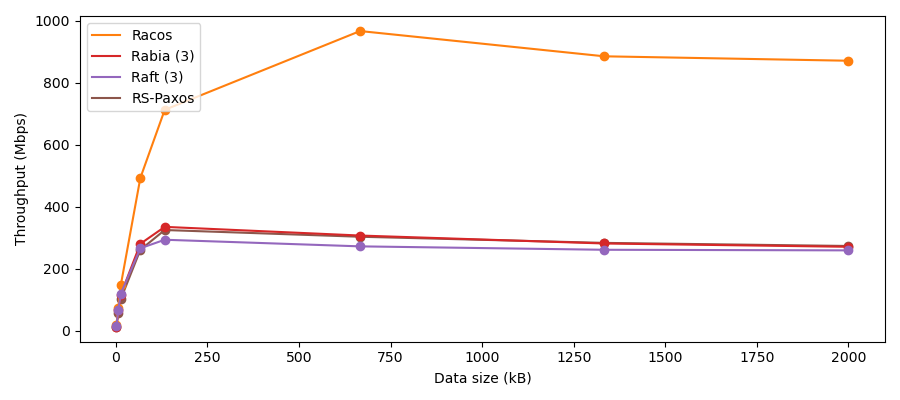
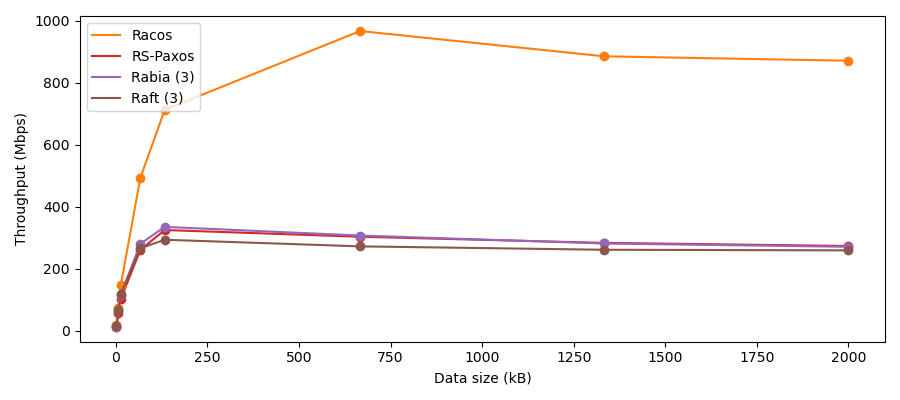
small changes and new plots

Changed region(s): [[0.1244, 0.54, 0.9644, 0.84], [0.1556, 0.18, 0.2178, 0.27], [0.1244, 0.12, 0.2178, 0.15]]

diff --git a/plotting.py b/plotting.py
@@ -11,77 +11,135 @@ from helpers.plotting_helpers import prune_dataframe, setup_dataframe
 
 DIMENSIONS : typing.Tuple[int] = 9, 4
 ALG_VANITY : typing.Dict[str, typing.Tuple[typing.Union[str, float]]] = {
-  'racos' : ('Racos w/ Quorum Read', 'C1', -.38),
-  'tracos' : ('Racos w/ Transaction Read', 'C2', -.19),
-  'rabia' : ('Rabia', 'C3', 0),
-  'raft' : ('Raft', 'C4', .19),
-  'paxos' : ('RS-Paxos', 'C5', .38)
+  'racos' : ('C1', -.3, -.38),
+  'tracos' : ('C2', None, -.19),
+  'paxos' : ('C3', -.1, 0),
+  'rabia' : ('C4', .1, .19),
+  'raft' : ('C5', .3, .38),
 }
-BAR_LEGEND : typing.List[pyplot.Rectangle] = [pyplot.Rectangle((0,0), 1, 1, facecolor = 'C1', label='Racos'), pyplot.Rectangle((0,0), 1, 1, facecolor = 'C2', label = 'Rabia'), pyplot.Rectangle((0,0), 1, 1, facecolor = 'C3', label = 'Raft'), pyplot.Rectangle((0,0), 1, 1, facecolor = 'C4', label = 'RS-Paxos')]
-LINE_LEGEND_WRITE : typing.List[pyplot.Rectangle] = [pyplot.Line2D([0], [0], color = 'C1', linestyle = '-', marker = '', label = 'Racos'), pyplot.Line2D([0], [0], color = 'C3', linestyle = '-', label = 'Rabia (3)'), pyplot.Line2D([0], [0], color = 'C4', linestyle = '-', label = 'Raft (3)'), pyplot.Line2D([0], [0], color = 'C5', linestyle = '-', label = 'RS-Paxos')]
-LINE_LEGEND_READ : typing.List[pyplot.Rectangle] = [pyplot.Line2D([0], [0], color = 'C1', linestyle = '-', marker = '', label = 'Racos w/ Quorum Read'), pyplot.Line2D([0], [0], color = 'C2', linestyle = '-', marker = '', label = 'Racos w/ Transaction Read'), pyplot.Line2D([0], [0], color = 'C3', linestyle = '-', label = 'Rabia (3)'), pyplot.Line2D([0], [0], color = 'C4', linestyle = '-', label = 'Raft (3)'), pyplot.Line2D([0], [0], color = 'C5', linestyle = '-', label = 'RS-Paxos')]
 
-def data_size_discrete_all_write() -> None:
-  '''creates all configured plots from the data found in `data/data_size-discrete-all_write.csv`'''
-  plot_531_data : pandas.DataFrame = prune_dataframe(pandas.read_csv('data/data_size-discrete-all_write.csv'))
-  plot_531_data['alg'] = plot_531_data['alg'].replace('tracos', 'racos')
-  plot_531_data = plot_531_data.loc[(((plot_531_data['alg'] == 'racos') | (plot_531_data['alg'] == 'paxos')) & (plot_531_data['num_nodes'] == 6)) | (((plot_531_data['alg'] == 'rabia') | (plot_531_data['alg'] == 'raft')) & (plot_531_data['num_nodes'] == 4))]
-  if len(plot_531_data['alg'].unique()) == 4:
+BAR_LEGEND_WRITE : typing.List[pyplot.Rectangle] = [pyplot.Rectangle((0,0), 1, 1, facecolor = 'C1', label='Racos'), pyplot.Rectangle((0,0), 1, 1, facecolor = 'C3', label = 'RS-Paxos'), pyplot.Rectangle((0,0), 1, 1, facecolor = 'C4', label = 'Rabia (3)'), pyplot.Rectangle((0,0), 1, 1, facecolor = 'C5', label = 'Raft (5)')]
+BAR_LEGEND_READ : typing.List[pyplot.Rectangle] = [pyplot.Rectangle((0,0), 1, 1, facecolor = 'C1', label='Racos w/ Quorum Read'), pyplot.Rectangle((0,0), 1, 1, facecolor = 'C2', label='Racos w/ Transaction Read'), pyplot.Rectangle((0,0), 1, 1, facecolor = 'C3', label = 'RS-Paxos'), pyplot.Rectangle((0,0), 1, 1, facecolor = 'C4', label = 'Rabia (3)'), pyplot.Rectangle((0,0), 1, 1, facecolor = 'C5', label = 'Raft (3)')]
+LINE_LEGEND_WRITE : typing.List[pyplot.Rectangle] = [pyplot.Line2D([0], [0], color = 'C1', linestyle = '-', marker = '', label = 'Racos'), pyplot.Line2D([0], [0], color = 'C3', linestyle = '-', label = 'RS-Paxos'), pyplot.Line2D([0], [0], color = 'C4', linestyle = '-', label = 'Rabia (3)'), pyplot.Line2D([0], [0], color = 'C5', linestyle = '-', label = 'Raft (3)')]
+LINE_LEGEND_READ : typing.List[pyplot.Rectangle] = [pyplot.Line2D([0], [0], color = 'C1', linestyle = '-', marker = '', label = 'Racos w/ Quorum Read'), pyplot.Line2D([0], [0], color = 'C2', linestyle = '-', marker = '', label = 'Racos w/ Transaction Read'), pyplot.Line2D([0], [0], color = 'C3', linestyle = '-', label = 'RS-Paxos'), pyplot.Line2D([0], [0], color = 'C4', linestyle = '-', label = 'Rabia (3)'), pyplot.Line2D([0], [0], color = 'C5', linestyle = '-', label = 'Raft (3)')]
 
-    # generating plot 5.3.1
+def data_size_discrete_all_read() -> None:
+  '''creates all configured plots from the data found in `data/data_size-discrete-all_read.csv`'''
+  plot_data : pandas.DataFrame = setup_dataframe(pandas.read_csv('data/data_size-discrete-all_read.csv'))
+  if len(plot_data['alg'].unique()) == 5:
+
+    # generating plot 5.3.3
     pyplot.figure(figsize = DIMENSIONS)
-    for alg, group in plot_531_data.groupby(['alg', 'unit_size'])['ops'].mean().reset_index().groupby('alg'):
-      pyplot.plot(group['unit_size'], group['ops'] * group['unit_size'] / 125, marker = 'o', color = ALG_VANITY[alg][1])
-    pyplot.xlabel('Data size (kB)')
-    pyplot.ylabel('Throughput (Mbps)')
-    pyplot.legend(handles = LINE_LEGEND_WRITE, loc = 'upper left')
-    pyplot.tight_layout()
-    pyplot.savefig(f'plots/data_size-discrete-all_write/data_size/throughput/data_size-throughput-all_write.png')
-
-def data_size_discrete_half_write_half_read() -> None:
-  '''creates all configured plots from the data found in `data/data_size-discrete-half_write_half_read.csv`'''
-  plot_532_data : pandas.DataFrame = setup_dataframe(pandas.read_csv('data/data_size-discrete-half_write_half_read.csv'))
-  if len(plot_532_data['alg'].unique()) == 5:
-
-    # generating plot 5.3.2
-    pyplot.figure(figsize = DIMENSIONS)
-    for alg, group in plot_532_data.groupby(['alg', 'unit_size'])['ops'].mean().reset_index().groupby('alg'):
-      pyplot.plot(group['unit_size'], group['ops'] * group['unit_size'] / 125, marker = 'o', color = ALG_VANITY[alg][1])
+    for alg, group in plot_data.groupby(['alg', 'unit_size'])['ops'].mean().reset_index().groupby('alg'):
+      pyplot.plot(group['unit_size'], group['ops'] * group['unit_size'] / 125, marker = 'o', color = ALG_VANITY[alg][0])
     pyplot.xlabel('Data size (kB)')
     pyplot.ylabel('Throughput (Mbps)')
     pyplot.legend(handles = LINE_LEGEND_READ, loc = 'upper left')
     pyplot.tight_layout()
-    pyplot.savefig(f'plots/data_size-discrete-all_write/data_size/throughput/data_size-throughput-half_write_half_read.png')
+    pyplot.savefig('plots/data_size-discrete-all_read/data_size/throughput/data_size-throughput-all_read.png')
 
-def data_size_discrete_all_read() -> None:
-  '''creates all configured plots from the data found in `data/data_size-discrete-all_read.csv`'''
-  plot_533_data : pandas.DataFrame = setup_dataframe(pandas.read_csv('data/data_size-discrete-all_read.csv'))
-  if len(plot_533_data['alg'].unique()) == 5:
-
-    # generating plot 5.3.3
+    # generating plot 5.4.3
     pyplot.figure(figsize = DIMENSIONS)
-    for alg, group in plot_533_data.groupby(['alg', 'unit_size'])['ops'].mean().reset_index().groupby('alg'):
-      pyplot.plot(group['unit_size'], group['ops'] * group['unit_size'] / 125, marker = 'o', color = ALG_VANITY[alg][1])
+    x_axis : numpy.ndarray = numpy.arange(8)
+    for alg, group in plot_data.groupby(['alg', 'unit_size'])[['med_latency', 'p95_latency', 'p99_latency']].mean().reset_index().groupby('alg'):
+      pyplot.bar(x_axis + ALG_VANITY[alg][2], group['med_latency'] / 1000, .19, color = ALG_VANITY[alg][0])
+      pyplot.plot(x_axis + ALG_VANITY[alg][2], group['p95_latency'] / 1000, marker = 'o', linestyle = '', color = ALG_VANITY[alg][0])
+      pyplot.plot(x_axis + ALG_VANITY[alg][2], group['p99_latency'] / 1000, marker = 'o', linestyle = '', color = ALG_VANITY[alg][0])
+    pyplot.xticks(x_axis, ['1.3', '6.7', '13.3', '66.7', '133.3', '666.7', '1333.3', '2000.0'])
+    pyplot.xlabel('Data size (kB)')
+    pyplot.ylabel('Latency (ms)')
+    pyplot.legend(handles = BAR_LEGEND_READ, loc = 'upper left')
+    pyplot.tight_layout()
+    pyplot.savefig('plots/data_size-discrete-all_read/data_size/latency/data_size-latency-all_read.png')
+
+def data_size_discrete_all_write() -> None:
+  '''creates all configured plots from the data found in `data/data_size-discrete-all_write.csv`'''
+  plot_data : pandas.DataFrame = prune_dataframe(pandas.read_csv('data/data_size-discrete-all_write.csv'))
+  plot_data['alg'] = plot_data['alg'].replace('tracos', 'racos')
+  plot_data = plot_data.loc[(((plot_data['alg'] == 'racos') | (plot_data['alg'] == 'paxos')) & (plot_data['num_nodes'] == 6)) | (((plot_data['alg'] == 'rabia') | (plot_data['alg'] == 'raft')) & (plot_data['num_nodes'] == 4))]
+  if len(plot_data['alg'].unique()) == 4:
+
+    # generating plot 5.3.1
+    pyplot.figure(figsize = DIMENSIONS)
+    for alg, group in plot_data.groupby(['alg', 'unit_size'])['ops'].mean().reset_index().groupby('alg'):
+      pyplot.plot(group['unit_size'], group['ops'] * group['unit_size'] / 125, marker = 'o', color = ALG_VANITY[alg][0])
     pyplot.xlabel('Data size (kB)')
     pyplot.ylabel('Throughput (Mbps)')
-    pyplot.legend(handles = LINE_LEGEND, loc = 'upper left')
+    pyplot.legend(handles = LINE_LEGEND_WRITE, loc = 'upper left')
     pyplot.tight_layout()
-    pyplot.savefig(f'plots/data_size-discrete-all_write/data_size/throughput/data_size-throughput-all_read.png')
+    pyplot.savefig('plots/data_size-discrete-all_write/data_size/throughput/data_size-throughput-all_write.png')
+
+    # generating plot 5.4.1
+    pyplot.figure(figsize = DIMENSIONS)
+    x_axis : numpy.ndarray = numpy.arange(8)
+    for alg, group in plot_data.groupby(['alg', 'unit_size'])[['med_latency', 'p95_latency', 'p99_latency']].mean().reset_index().groupby('alg'):
+      pyplot.bar(x_axis + ALG_VANITY[alg][1], group['med_latency'] / 1000, .2, color = ALG_VANITY[alg][0])
+      pyplot.plot(x_axis + ALG_VANITY[alg][1], group['p95_latency'] / 1000, marker = 'o', linestyle = '', color = ALG_VANITY[alg][0])
+      pyplot.plot(x_axis + ALG_VANITY[alg][1], group['p99_latency'] / 1000, marker = 'o', linestyle = '', color = ALG_VANITY[alg][0])
+    pyplot.xticks(x_axis, ['1.3', '6.7', '13.3', '66.7', '133.3', '666.7', '1333.3', '2000.0'])
+    pyplot.xlabel('Data size (kB)')
+    pyplot.ylabel('Latency (ms)')
+    pyplot.legend(handles = BAR_LEGEND_WRITE, loc = 'upper left')
+    pyplot.tight_layout()
+    pyplot.savefig('plots/data_size-discrete-all_write/data_size/latency/data_size-latency-all_write.png')
+
+def data_size_discrete_half_write_half_read() -> None:
+  '''creates all configured plots from the data found in `data/data_size-discrete-half_write_half_read.csv`'''
+  plot_data : pandas.DataFrame = setup_dataframe(pandas.read_csv('data/data_size-discrete-half_write_half_read.csv'))
+  if len(plot_data['alg'].unique()) == 5:
+
+    # generating plot 5.3.2
+    pyplot.figure(figsize = DIMENSIONS)
+    for alg, group in plot_data.groupby(['alg', 'unit_size'])['ops'].mean().reset_index().groupby('alg'):
+      pyplot.plot(group['unit_size'], group['ops'] * group['unit_size'] / 125, marker = 'o', color = ALG_VANITY[alg][0])
+    pyplot.xlabel('Data size (kB)')
+    pyplot.ylabel('Throughput (Mbps)')
+    pyplot.legend(handles = LINE_LEGEND_READ, loc = 'upper left')
+    pyplot.tight_layout()
+    pyplot.savefig('plots/data_size-discrete-half_write_half_read/data_size/throughput/data_size-throughput-half_write_half_read.png')
+
+    # generating plot 5.4.2
+    pyplot.figure(figsize = DIMENSIONS)
+    x_axis : numpy.ndarray = numpy.arange(8)
+    for alg, group in plot_data.groupby(['alg', 'unit_size'])[['med_latency', 'p95_latency', 'p99_latency']].mean().reset_index().groupby('alg'):
+      pyplot.bar(x_axis + ALG_VANITY[alg][2], group['med_latency'] / 1000, .19, color = ALG_VANITY[alg][0])
+      pyplot.plot(x_axis + ALG_VANITY[alg][2], group['p95_latency'] / 1000, marker = 'o', linestyle = '', color = ALG_VANITY[alg][0])
+      pyplot.plot(x_axis + ALG_VANITY[alg][2], group['p99_latency'] / 1000, marker = 'o', linestyle = '', color = ALG_VANITY[alg][0])
+    pyplot.xticks(x_axis, ['1.3', '6.7', '13.3', '66.7', '133.3', '666.7', '1333.3', '2000.0'])
+    pyplot.xlabel('Data size (kB)')
+    pyplot.ylabel('Latency (ms)')
+    pyplot.legend(handles = BAR_LEGEND_READ, loc = 'upper left')
+    pyplot.tight_layout()
+    pyplot.savefig('plots/data_size-discrete-half_write_half_read/data_size/latency/data_size-latency-half_write_half_read.png')
 
 def data_size_discrete_5_write_95_read() -> None:
   '''creates all configured plots from the data found in `data/data_size-discrete-5_write_95_read.csv`'''
-  plot_534_data : pandas.DataFrame = setup_dataframe(pandas.read_csv('data/data_size-discrete-5_write_95_read.csv'))
-  if len(plot_534_data['alg'].unique()) == 5:
+  plot_data : pandas.DataFrame = setup_dataframe(pandas.read_csv('data/data_size-discrete-5_write_95_read.csv'))
+  if len(plot_data['alg'].unique()) == 5:
 
     # generating plot 5.3.4
     pyplot.figure(figsize = DIMENSIONS)
-    for alg, group in plot_534_data.groupby(['alg', 'unit_size'])['ops'].mean().reset_index().groupby('alg'):
-      pyplot.plot(group['unit_size'], group['ops'] * group['unit_size'] / 125, marker = 'o', color = ALG_VANITY[alg][1])
+    for alg, group in plot_data.groupby(['alg', 'unit_size'])['ops'].mean().reset_index().groupby('alg'):
+      pyplot.plot(group['unit_size'], group['ops'] * group['unit_size'] / 125, marker = 'o', color = ALG_VANITY[alg][0])
     pyplot.xlabel('Data size (kB)')
     pyplot.ylabel('Throughput (Mbps)')
-    pyplot.legend(handles = LINE_LEGEND, loc = 'upper left')
+    pyplot.legend(handles = LINE_LEGEND_READ, loc = 'upper left')
     pyplot.tight_layout()
-    pyplot.savefig(f'plots/data_size-discrete-all_write/data_size/throughput/data_size-throughput-5_write_95_read.png')
+    pyplot.savefig('plots/data_size-discrete-5_write_95_read/data_size/throughput/data_size-throughput-5_write_95_read.png')
+
+    # generating plot 5.4.4
+    pyplot.figure(figsize = DIMENSIONS)
+    x_axis : numpy.ndarray = numpy.arange(8)
+    for alg, group in plot_data.groupby(['alg', 'unit_size'])[['med_latency', 'p95_latency', 'p99_latency']].mean().reset_index().groupby('alg'):
+      pyplot.bar(x_axis + ALG_VANITY[alg][2], group['med_latency'] / 1000, .19, color = ALG_VANITY[alg][0])
+      pyplot.plot(x_axis + ALG_VANITY[alg][2], group['p95_latency'] / 1000, marker = 'o', linestyle = '', color = ALG_VANITY[alg][0])
+      pyplot.plot(x_axis + ALG_VANITY[alg][2], group['p99_latency'] / 1000, marker = 'o', linestyle = '', color = ALG_VANITY[alg][0])
+    pyplot.xticks(x_axis, ['1.3', '6.7', '13.3', '66.7', '133.3', '666.7', '1333.3', '2000.0'])
+    pyplot.xlabel('Data size (kB)')
+    pyplot.ylabel('Latency (ms)')
+    pyplot.legend(handles = BAR_LEGEND_READ, loc = 'upper left')
+    pyplot.tight_layout()
+    pyplot.savefig('plots/data_size-discrete-5_write_95_read/data_size/latency/data_size-latency-5_write_95_read.png')
 
 # def threads_discrete_half_write_half_read() -> None:
 #   '''creates all configured plots from the data in `data/threads-discrete-half_write_half_read.csv`'''
@@ -92,7 +150,7 @@ def data_size_discrete_5_write_95_read() -> None:
 #       # plotting throughput against p99 latency
 #       pyplot.figure(figsize = DIMENSIONS)
 #       for alg, group_inner in group_med.groupby(['alg', 'unit_size'])[['ops', 'p99_latency']].mean().reset_index().groupby('alg'):
-#         pyplot.plot(group_inner['ops'] * 10.666792, group_inner['p99_latency'] / 1000, marker = 'o', label = ALG_VANITY[alg][0], color = ALG_VANITY[alg][1])
+#         pyplot.plot(group_inner['ops'] * 10.666792, group_inner['p99_latency'] / 1000, marker = 'o', color = ALG_VANITY[alg][0])
 #       pyplot.xlabel('Throughput (Mbps)')
 #       pyplot.ylabel('P99 latency (ms)')
 #       pyplot.title('Half write and half read workload. P99 latencies at different throughputs.')
@@ -101,4 +159,5 @@ def data_size_discrete_5_write_95_read() -> None:
 #       pyplot.savefig(f'plots/threads-discrete-half_write_half_read/throughput/latency/plot-{num_nodes}-{config[0]}-{config[1]}-{config[2]}-{config[3]}-{config[4]}-1_50-{TIMESTAMP().strftime(TIMESTAMP_FORMAT)}.png')
 
 if __name__ == '__main__':
+  data_size_discrete_all_read()
   data_size_discrete_all_write()
